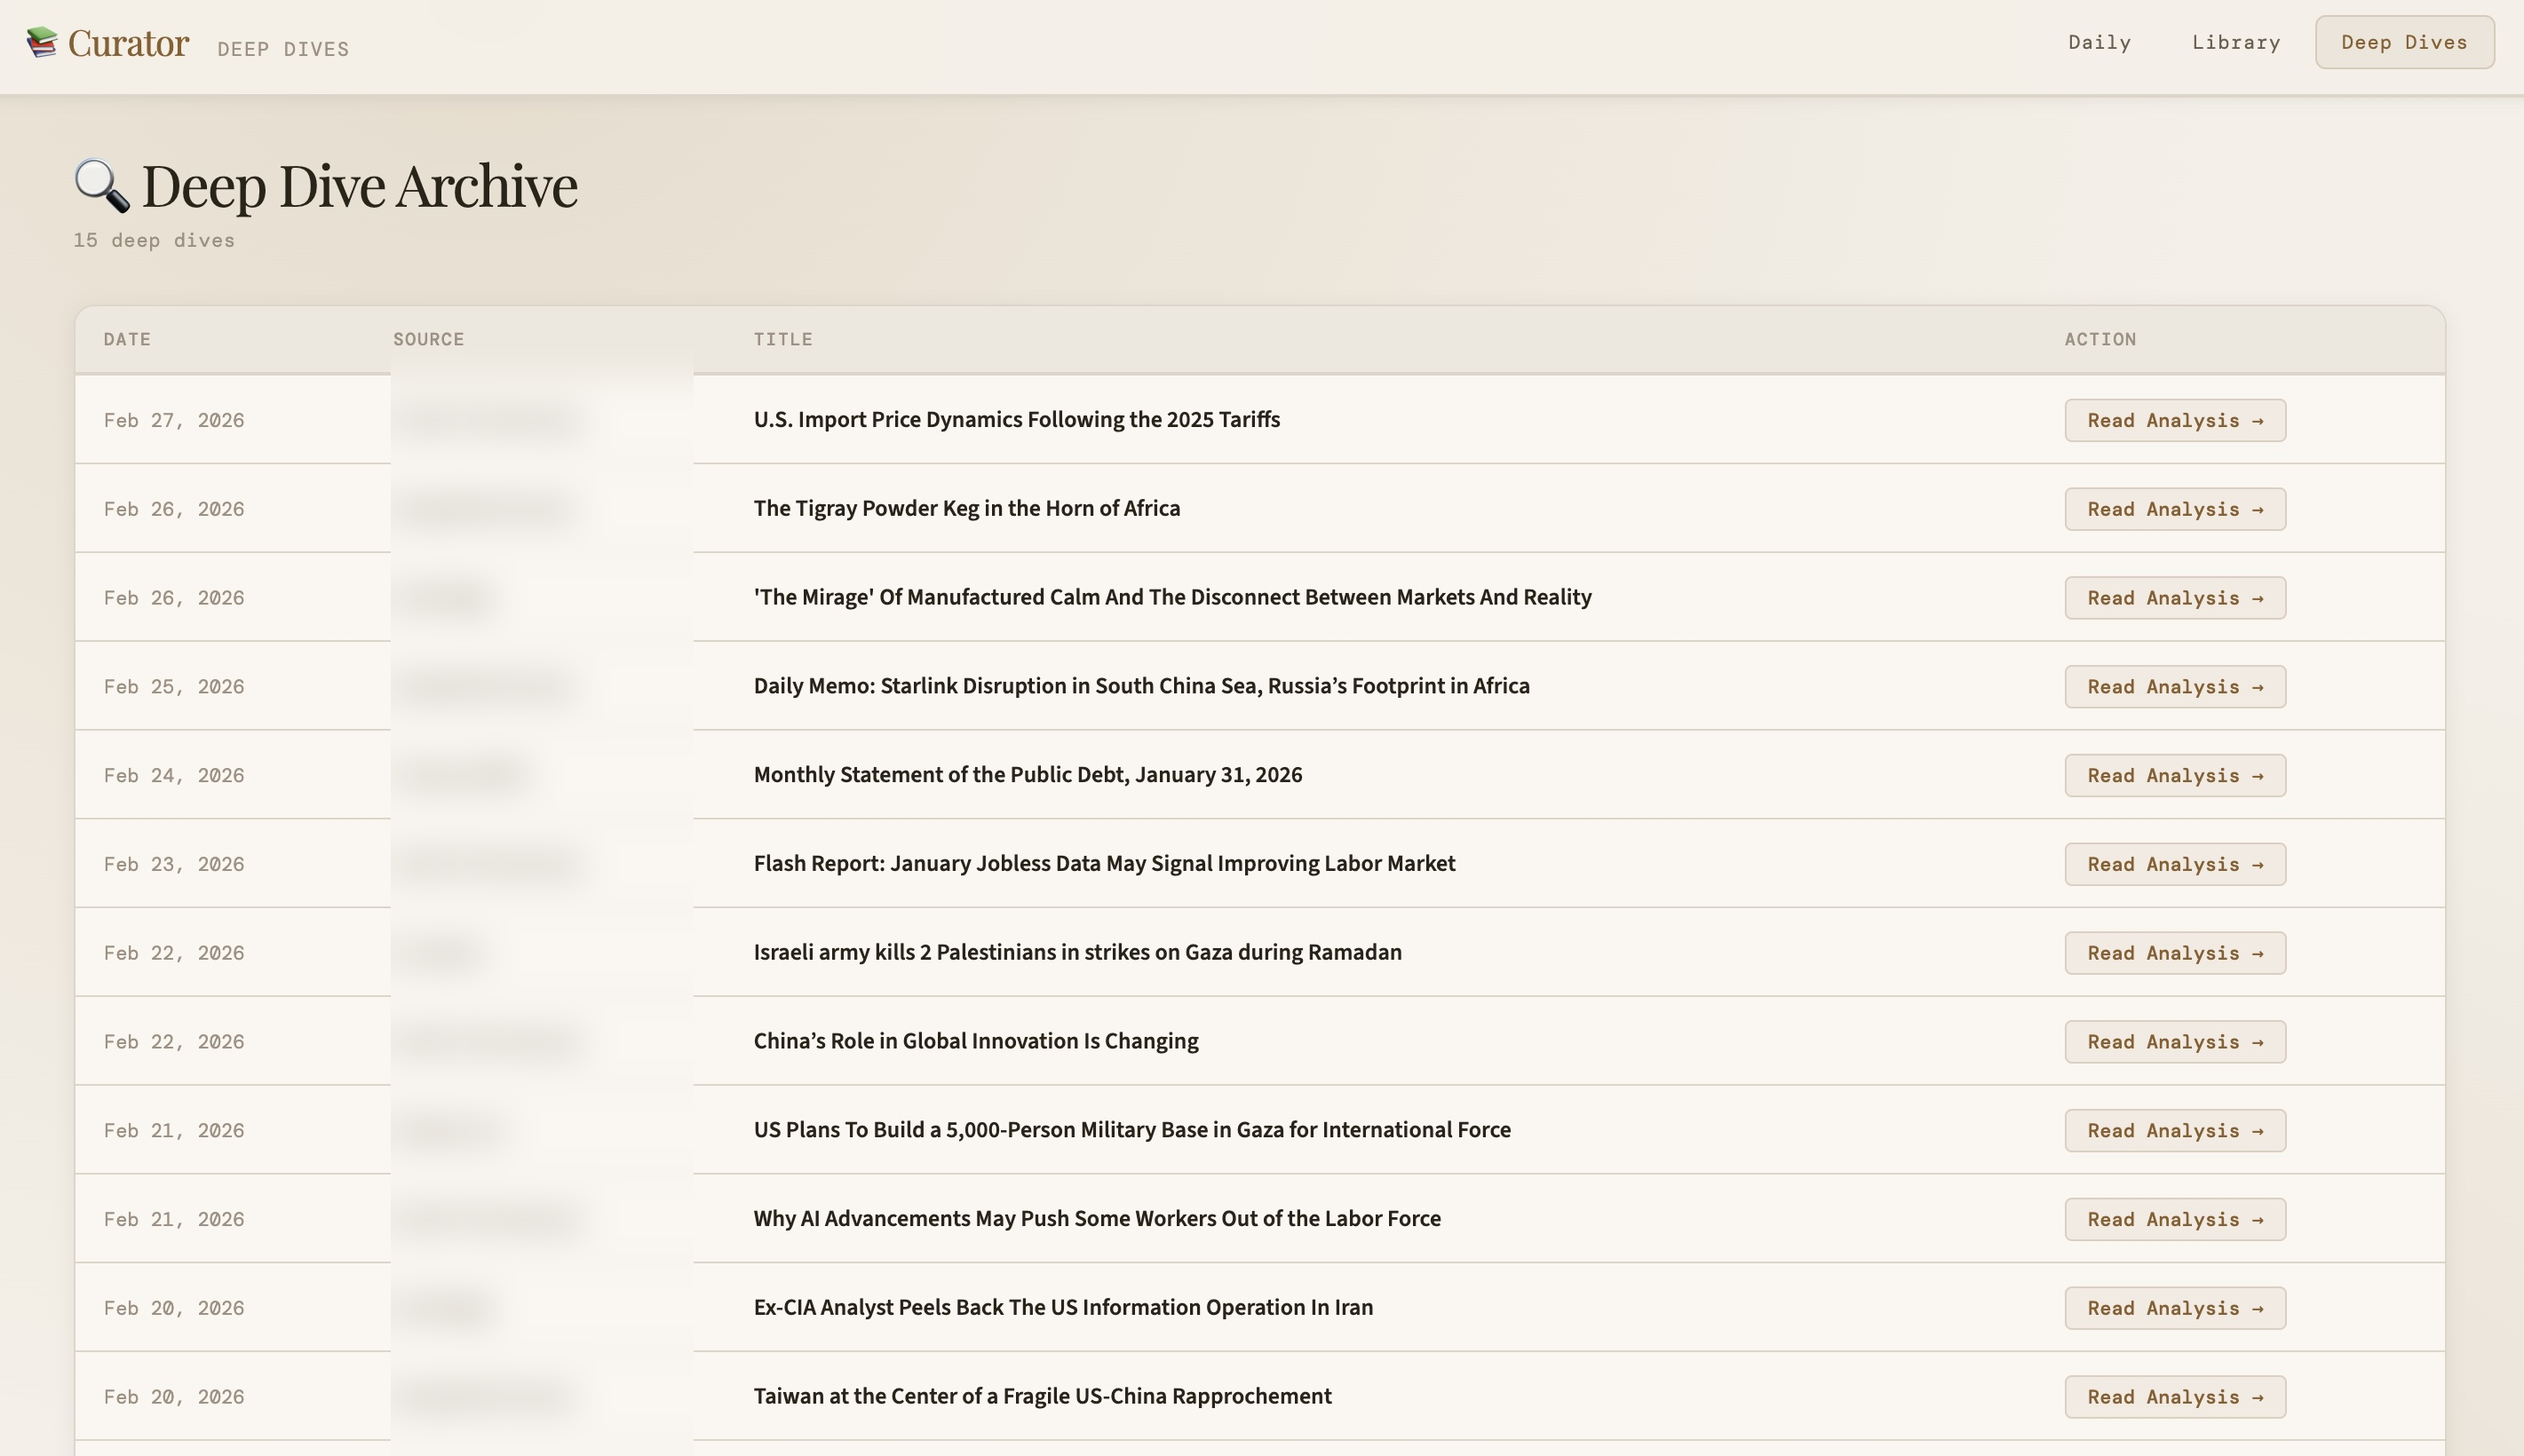
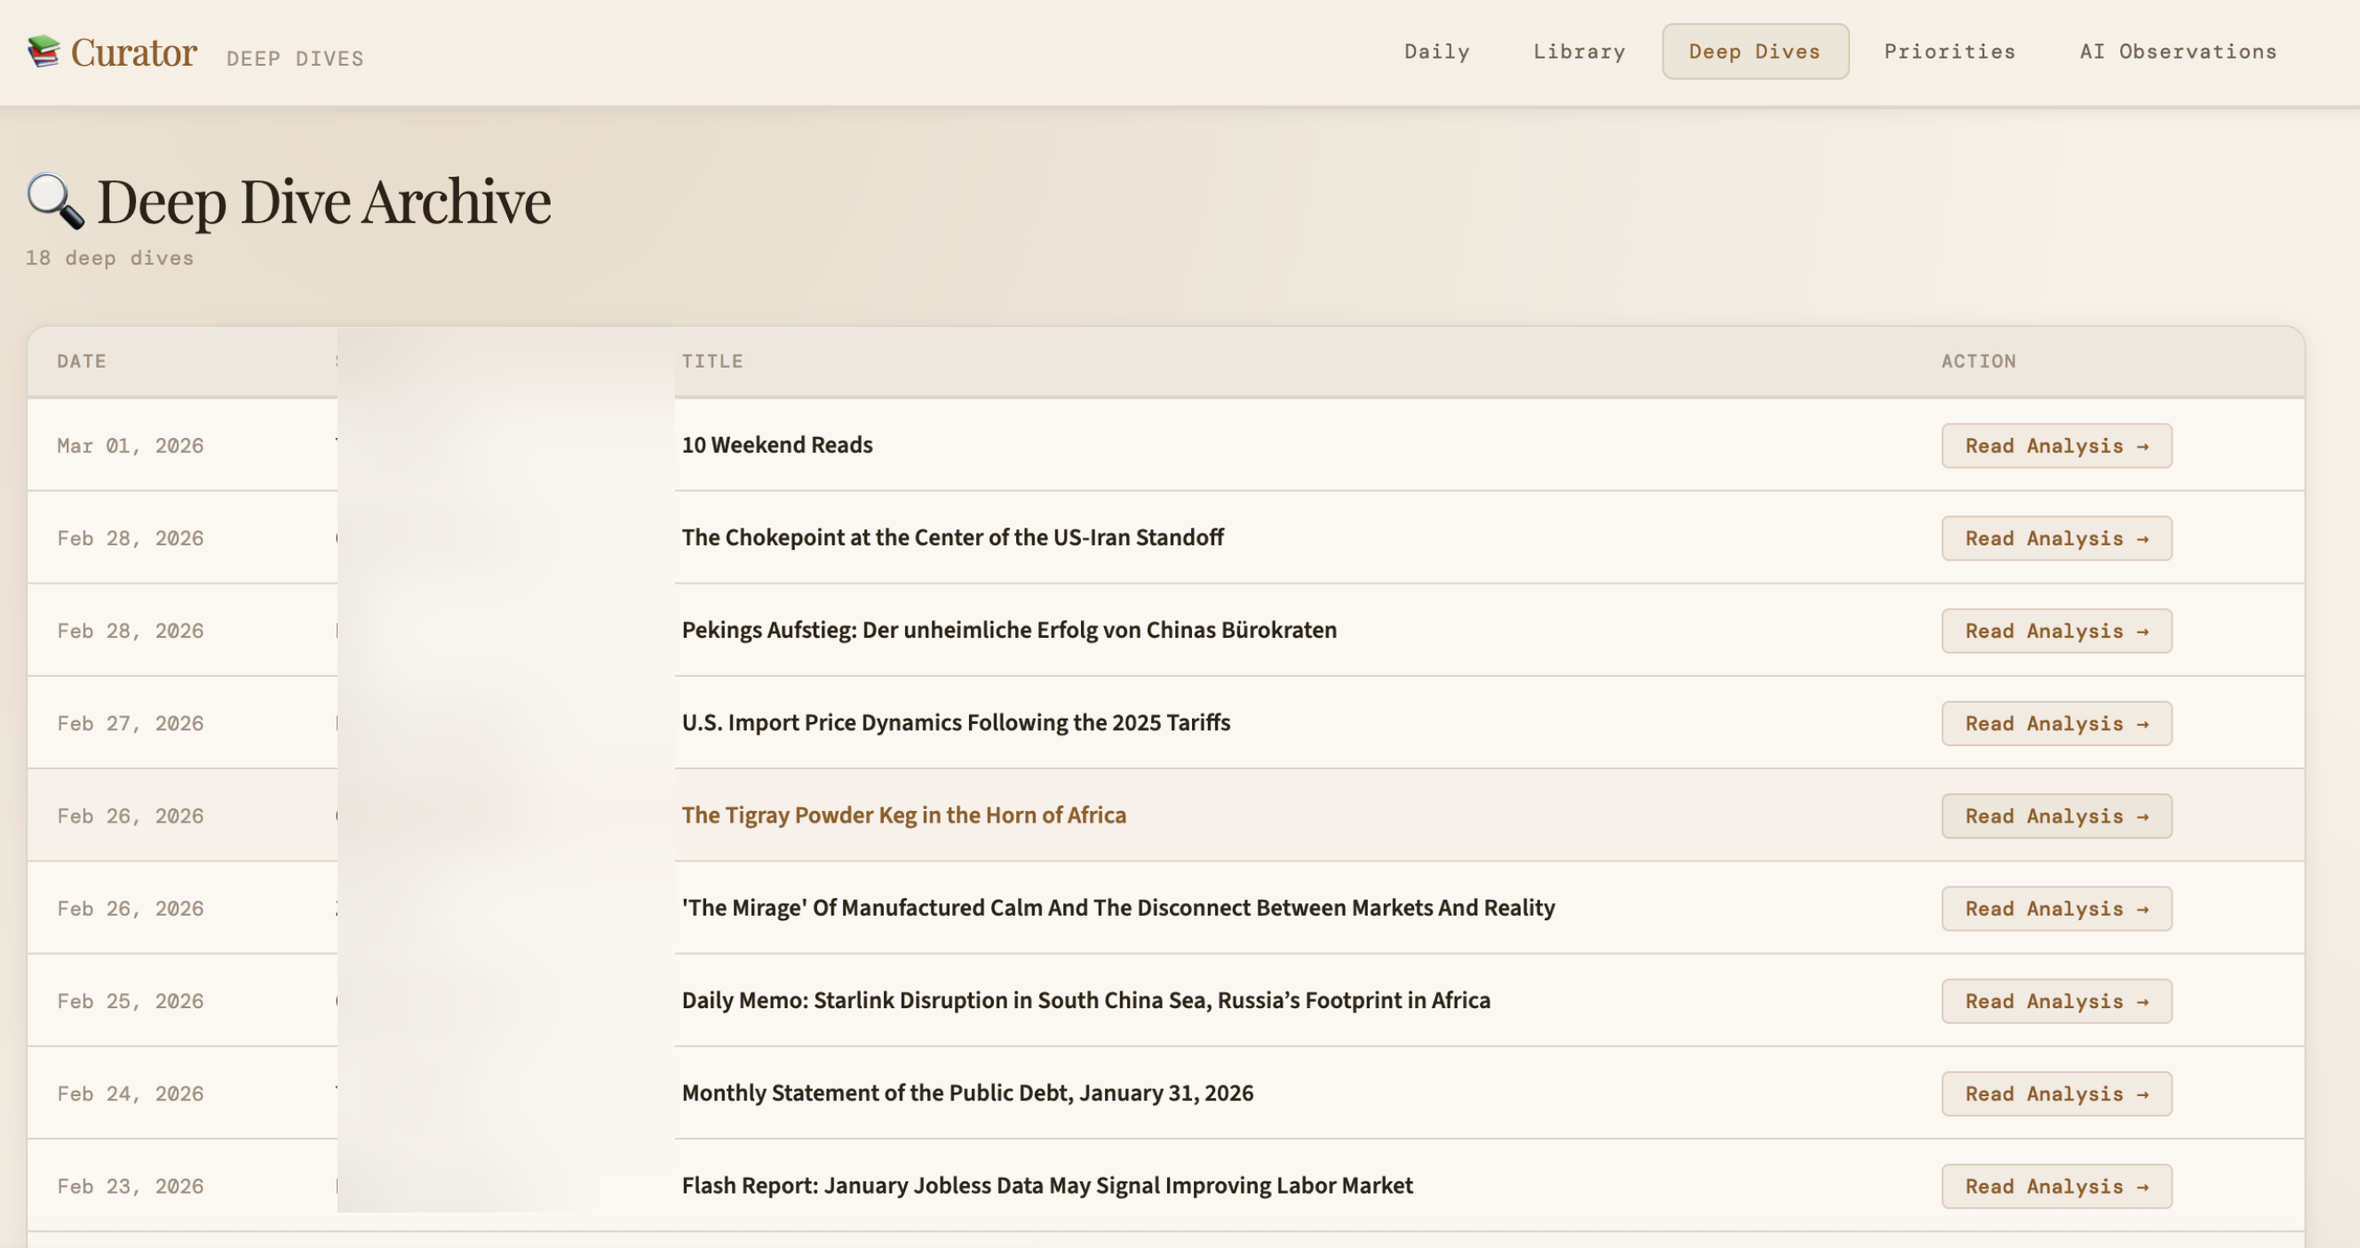
docs: add revised README_v3 and blurred screenshots
- README_v3.md: full rewrite with cleaner framing, accurate pipeline
  description, updated What It Does section
- docs/screenshots/: daily-briefing, priorities, library, ai-observations,
  deep-dives (all blurred for privacy)

diff --git a/README_v3.md b/README_v3.md
@@ -1,0 +1,174 @@
+# Mini-moi — Personal AI Agent
+
+### *Mini-moi — not a general intelligence, but a specific one. Yours.*
+
+A personal AI agent system. Local memory, local model, swappable LLMs
+when you need them — not the other way around. The goal is an agent that
+knows you, challenges you, and gets better with you over time.
+
+The first domain: geopolitics and finance. Health, language learning,
+and others to follow. The architecture is designed to reuse across all of them.
+
+Learns from your history and preferences, with deliberate friction built
+in. Not a curated feed that confirms what you already think — an agent
+that surfaces what you should be seeing, including content that cuts
+against the grain.
+
+> Production system, daily use since Feb 2026. Local-first, model-agnostic,
+> designed to expand across domains — see [Where It Goes Next](#where-it-goes-next).
+
+---
+
+## What This Is Really About
+
+The cloud LLMs have the world's knowledge. That problem is largely solved.
+
+The hard part — the part that actually matters for real decisions — is
+acting in your specific situation. Your history. Your goals. Your risk
+tolerance. Your team's context and motivation. General intelligence is
+widely available now. Specific intelligence, the kind that knows you and
+acts for you, isn't.
+
+That's what this builds toward.
+
+Local memory and a local model are the foundation — context, preferences,
+and learned behavior stay with you. Cloud LLMs are central to how this
+works — they bring the world's knowledge, reasoning, and current events
+into the picture. But memory, context, and what the agent has learned
+about you stay local. That's what maintains autonomy. Switch models,
+switch providers, go offline — the agent still knows you.
+
+The vision is bigger than a personal project or one domain. If I had a
+team at work — people and agents together — I'd want this same local
+context and motivation at the center of it. Not a generic assistant that
+knows everything about the world but nothing about us. A specific
+capability, grounded in our history, our goals, our way of making
+decisions under uncertainty.
+
+That's what Mini-moi — mini-me — is about. Not a mini version of a large
+language model. A system that carries your particular point of view and
+acts on your behalf — in your real world, for you, now.
+
+And it gets better as you use it. Not because someone updated a model —
+because you and the agent are learning together.
+
+---
+
+## Why I Built This
+
+The best way to understand something is to build it. This project started
+as exactly that — learning by doing, with a real problem and a real use
+case, not a tutorial exercise.
+
+The future of AI isn't just larger models with more world knowledge — it's
+systems that carry specific context: your history, your goals, your way of
+reasoning through uncertainty. The cloud LLMs are powerful — but they don't
+know your personal context. And if they did, you'd risk being locked into
+one provider, with your history and preferences held somewhere you don't
+control.
+
+I wanted to build that layer. Not as a prototype or a tutorial exercise,
+but as something I actually use. Geopolitics and finance were the natural
+first domain — areas I follow closely, where I have a real point of view
+that a generic feed can't capture.
+
+The approach — local context, model-agnostic, flat files structured for
+future migration — was designed to scale beyond one person and one domain.
+Health, language learning, team environments at work. The architecture
+anticipates that. The first domain just had to be one I cared enough about
+to build it right.
+
+---
+
+## How It Was Built
+
+I set out to build this the right way — production quality, not a hack.
+AI lowers the barrier to building, but it can also take over if you let it.
+The discipline here was to use it as a genuine collaborator: coach,
+reviewer, and implementer — but never the one driving.
+
+Not designed up front then implemented. The vision was fixed. The path
+was iterative — a working slice first, production feedback, then
+refinement. Each phase complete before the next one started.
+
+### The Foundation
+
+The intent of the project kept the foundation disciplined.
+
+From day one: a structured database for content, history, and memory, and
+a graph database for learned relationships. Both installed, both in use
+early. But the tension surfaced quickly — too much time on infrastructure,
+not enough on functionality. The breakthrough came from an unexpected
+direction. The LLM suggested structuring the JSON files to match a database
+schema — write local first, load later. I knew immediately that was the
+answer. One migration command when the time comes, no rewrite.
+
+We undid some early work and rebuilt around that principle. The result:
+a system that is database-independent today, just as it is LLM-independent.
+The data is ready. The databases are waiting. The functionality came first.
+
+The same principle applied to models. User profile injection at the
+dispatcher level, not inside any model's prompt. Swap any model at any
+layer without touching the personalization logic. Database-independent.
+LLM-independent. The pattern held throughout.
+
+A side benefit emerged later: a dry-run mode that validates code against
+the local model instantly, at no cost. The architecture rewarded the
+approach in ways that weren't fully anticipated at the start.
+
+---
+
+## What It Does
+
+### The Daily Briefing
+
+Every morning, a three-stage pipeline runs automatically:
+
+- **Gather & enrich** — RSS feeds and X bookmarks are pulled and merged;
+  destination content is fetched from source URLs, giving the scorer full
+  article context, not just headlines
+- **Score** — a reasoning model ranks ~700 candidates with your learned
+  profile injected
+- **Deliver** — top 20 to the web portal, top 10 to the mobile messaging
+  channel
+
+Each stage uses a swappable model, tuned for cost and quality. The
+architecture supports a bulk pre-filter between gather and score — ready
+to activate as the candidate pool grows.
+
+Later in the day, **AI Observations** arrives: the system's own read on
+what it surfaced — what's surging, what's missing, where the story is.
+You respond. Those responses feed the learning loop.
+
+![Daily Briefing](docs/screenshots/daily-briefing.png)
+
+### On Demand
+
+- **React & learn** — like, dislike, or save any article on either surface.
+  Every signal feeds the learning loop and shapes future scoring — including
+  the friction reserve, where the system surfaces content that cuts against
+  the grain of your usual reading, keeping the feed from becoming a
+  confirmation loop.
+- **Deep Dive** — flag any article from the web portal for a structured AI
+  brief. Add your own notes first — what caught your attention, what you
+  want explored — and the deep dive is shaped by that context, not generic.
+- **Signal Priorities** — inject a focus area directly into the scoring
+  pipeline, with a boost level and expiry.
+
+![Signal Priorities](docs/screenshots/priorities.png)
+
+---
+
+## Where It Goes Next
+
+The geopolitics and finance domain is 1.0. Active development continues —
+expanding sources, deepening the learning loop, and refining the pipeline
+within this domain. The architecture is designed to extend to others:
+health, language learning, team environments at work.
+
+See [ROADMAP.md](ROADMAP.md) for what's next.
+
+---
+
+**Status:** v1.0 feature complete — March 2026
+**Author:** Robert van Stedum
